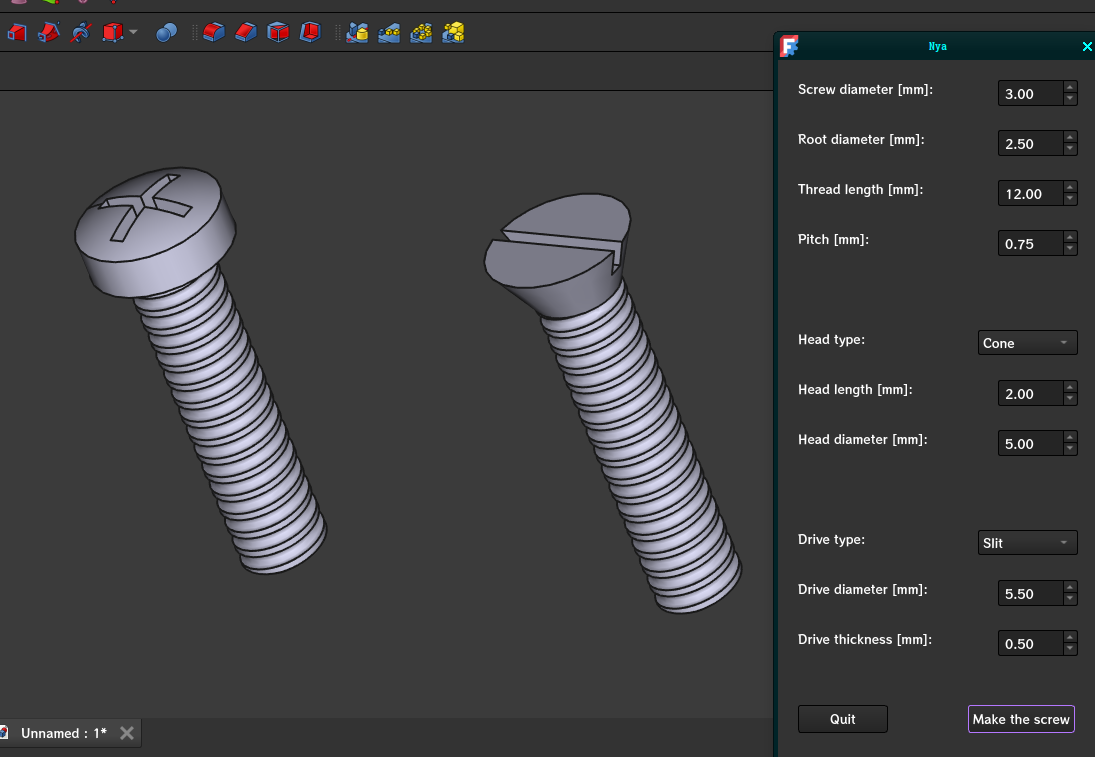
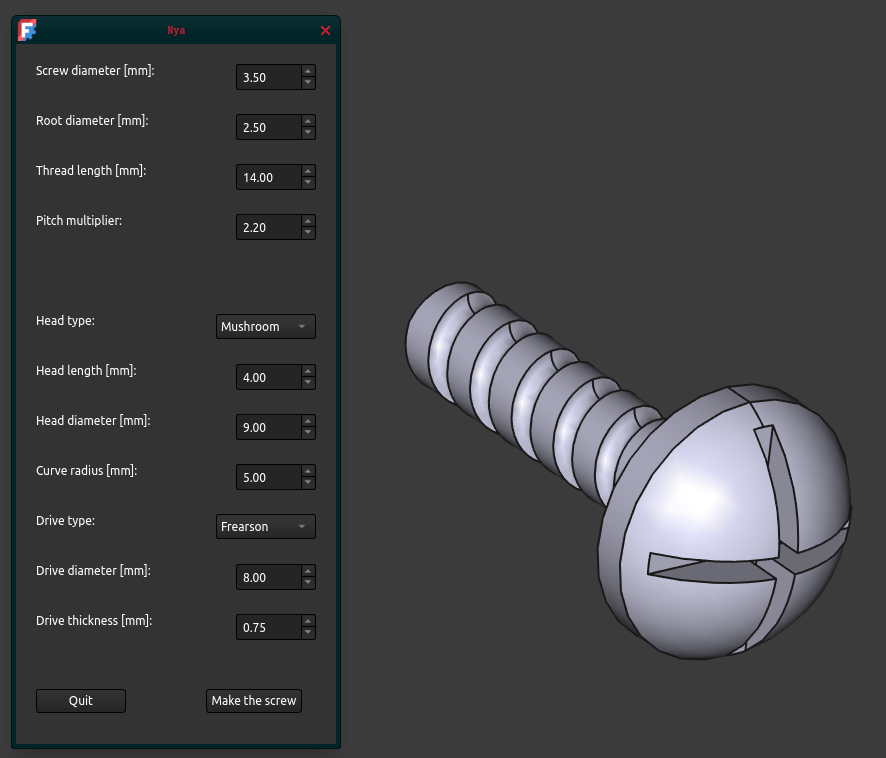
41: Added documentation for the screw maker.

diff --git a/readme.md b/readme.md
@@ -10,7 +10,8 @@
 2. Gear maker (pointy)
 3. Gear maker (perpendicular)
 4. Bearing maker 
-5. Copyleft
+5. Screw maker
+Copyleft
 
 
 ## 0. Requirements
@@ -94,7 +95,29 @@ Code originates from https://wiki.freecad.org/Scripted_Parts:_Ball_Bearing_-_Par
 ![Bearing dimensions](./pictures/screenshots/bearing.png)
 
 
-## 4. Copyleft
+
+## 5. Screw maker
+![Screw maker screenshot](./pictures/screenshots/Screwmaker.png)
+
+### 5.1. What's this?
+A program that forms screws by a variety of settings.
+Some things are limited (head and drive types). Even with that it is possible to create more variations that there are uses for them.
+
+### 5.2. What's that?
+*   Screw diameter: diameter of the screw thread, including the spiral (helix).
+*   Root diameter: inner diameter of the screw thread, not counting the helix. Modifications to it change the helix: the greater the root diameter, the more shallow and frequent the cutout is.
+*   Thread length: how long is the screw, not counting the head.
+*   Pitch multiplier: frequency of the negative helix. In other words, "how much distance is between the gaps.".
+
+*   Head type: shape of the head. I took the liberty to name the types myself.
+*   Head length: distance between the place where it connects to the thread and its farthest point.
+*   Curve radius: radius of the "Mushroom" curve. Not applicable to "Cone" head type.
+*   Drive type: Type of the cutout for the screwdriver. I see no need in adding all of the types I can find in the world.
+*   Drive thickness: Depth of the cutout.
+
+
+
+## Copyleft
 
 I allow usage and alternation of these scripts with or without my consent. 
 I prohibit proclaims of ownership of this code by anyone other than me.
